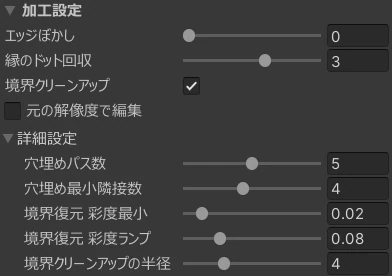
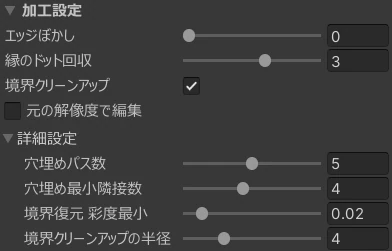
fix(ui): 効かない「境界復元 彩度ランプ」のスライダーを加工設定から外す
relaxedSatRamp は緩和マッチで使わなくなり、選択キャッシュのキーと保存形式にしか残っていないので、動かしても
何も変わらなかった（誤字点検の判断待ち 5、推奨の A）。スライダーと文言を外し、値と保存形式は残す（古いプリセットも
そのまま読める）。マニュアルの表と画面写真も直した。画面写真は Iroca_Dev の今の窓から撮り直し、前の写真の同じ範囲から
その 1 行（25px）を抜いたものと画素一致することを確かめた。

Claude-Session: https://claude.ai/code/session_01Dg99PZ2BBAA9JB9HUpY3xs

diff --git a/docs/manual/src/ja/07-processing.html b/docs/manual/src/ja/07-processing.html
@@ -38,8 +38,7 @@
   <tr><td>穴埋めパス数</td><td>アンチエイリアス端の孤立ドットを埋めるパス数</td><td>5</td></tr>
   <tr><td>穴埋め最小隣接数</td><td>穴を埋めるのに必要な一致隣接ピクセル数。低いほど積極的に埋める</td><td>4</td></tr>
   <tr><td>境界復元 彩度最小</td><td>境界復元時の彩度最小閾値</td><td>0.02</td></tr>
-  <tr><td>境界復元 彩度ランプ</td><td>境界復元時の彩度ランプ幅</td><td>0.08</td></tr>
   <tr><td>境界クリーンアップの半径</td><td>境界の画素について、パーツの色と背景の色を探す近傍の半径</td><td>4</td></tr>
 </tbody></table>
 
-<p>穴埋め・境界復元の 4 つも、縁のドット回収と同じく、初期設定では色のあるパーツには効きません。</p>
+<p>穴埋め・境界復元の 3 つも、縁のドット回収と同じく、初期設定では色のあるパーツには効きません。</p>

diff --git a/Code/UI/Localization.cs b/Code/UI/Localization.cs
@@ -209,11 +209,6 @@ namespace Iroca
             ? "境界復元時の彩度最小閾値。\n低い値 = より多くの境界ピクセルを回収\n高い値 = より厳格な回収\n既定: 0.02\n初期設定（境界クリーンアップ ON・エッジぼかし 0）では、色のあるパーツには効きません。縁は境界クリーンアップが塗ります。"
             : "Minimum saturation threshold for boundary recovery.\nLower = recover more boundary pixels\nHigher = stricter recovery\nDefault: 0.02\nWith the defaults (Edge Decontamination ON, Edge Feather 0) this has no effect on colored parts; Edge Decontamination paints their edges.";
 
-        public static string RelaxedSatRamp => IsJapanese ? "境界復元 彩度ランプ" : "Boundary Sat Ramp";
-        public static string RelaxedSatRampTooltip => IsJapanese
-            ? "境界復元時の彩度ランプ幅。\n大きい値 = より段階的な遷移\n小さい値 = よりシャープな境界\n既定: 0.08\n初期設定（境界クリーンアップ ON・エッジぼかし 0）では、色のあるパーツには効きません。縁は境界クリーンアップが塗ります。"
-            : "Saturation ramp width for boundary recovery.\nLarger = more gradual transition\nSmaller = sharper boundary\nDefault: 0.08\nWith the defaults (Edge Decontamination ON, Edge Feather 0) this has no effect on colored parts; Edge Decontamination paints their edges.";
-
         public static string ValueWeight => IsJapanese ? "明度重み" : "Value Weight";
         public static string ValueWeightTooltip => IsJapanese
             ? "距離式における明度（V）の重み。\n高い値 = 明度差に敏感（異なる素材を分離しやすい）\n低い値 = 明度差を許容（同じ素材の影/ハイライト変動を吸収）\n既定: 1.0"

diff --git a/Code/UI/IrocaWindow.Layout.cs b/Code/UI/IrocaWindow.Layout.cs
@@ -211,7 +211,7 @@ namespace Iroca
                 Localization.FloodFillSeedPoint, Localization.HighlightBandExpand,
                 Localization.AutoHighlightSample, Localization.HoleFillPasses,
                 Localization.HoleFillMinNeighbors, Localization.RelaxedSatMin,
-                Localization.RelaxedSatRamp, Localization.DecontaminationRadius);
+                Localization.DecontaminationRadius);
 
             // +4: ラベルとフィールドの間に詰まって見えない程度の余白。
             s_measuredLabelWidth = max + 4f;
@@ -801,9 +801,8 @@ namespace Iroca
                     relaxedSatMin = UndoHelper.Slider(this,
                         new GUIContent(Localization.RelaxedSatMin, Localization.RelaxedSatMinTooltip),
                         relaxedSatMin, 0f, 0.2f);
-                    relaxedSatRamp = UndoHelper.Slider(this,
-                        new GUIContent(Localization.RelaxedSatRamp, Localization.RelaxedSatRampTooltip),
-                        relaxedSatRamp, 0.01f, 0.3f);
+                    // relaxedSatRamp は出さない。緩和マッチで使わなくなり、動かしても何も変わらないため。
+                    // 値は選択キャッシュのキーと、プリセット・セッションの保存形式の互換のために残している。
                     using (new EditorGUI.DisabledScope(!useDecontamination))
                     {
                         decontaminationRadius = UndoHelper.IntSlider(this,

diff --git a/docs/manual/build_assets.py b/docs/manual/build_assets.py
@@ -137,7 +137,9 @@ SHOTS = [
     ("nd-section", "window.png", (0, 872, 1026, 1000), None),
     ("export-section", "tall_open.png", (0, 913, 1026, 1165), None),
     ("zone-detail", "zone_detail.png", (0, 140, 392, 950), None),
-    ("processing", "tall_open.png", (0, 397, 392, 673), None),
+    # 加工設定は 2026-10-19 に、効かない「境界復元 彩度ランプ」を隠したので撮り直した（中身はテクスチャに依らない）。
+    # 新しい原板は tall_open の同じ範囲から、その 1 行（25px）を抜いたものと画素一致。
+    ("processing", "processing_open.png", (0, 397, 392, 648), None),
     ("mask-section", "tall_open.png", (0, 680, 392, 835), None),
     ("presets", "presets_open.png", (0, 585, 392, 790), None),
     # 前後比較は 2 面並ぶので、窓を 1320pt 幅に広げて撮った原板から切り出す（820pt だと小さい）

diff --git a/CHANGELOG.md b/CHANGELOG.md
@@ -12,6 +12,7 @@
 - AI の準備で Sentis を導入する案内（確認画面とボタンの説明）とマニュアルに、VRChat SDK も使う Burst と Collections が一緒に新しい版に上がることを書きました
 - いろかのウィンドウと「Iroca Recolor」のインスペクタに出る NDMF の警告を、入っていない・古い・新しすぎるで分け、それぞれの直し方（NDMF を追加する・NDMF を新しくする・いろかを新しくする）を出すようにしました。これまでは版が合わないときも「NDMF を追加してください」と出ていました
 - 編集中の処理（プレビュー・スポイト・AI 提案・自動調整）と「アバターに非破壊で登録」のテクスチャを、インポート設定の Max Size の大きさで行うようにしました。ゲームに出るのもこの大きさです。元の画像が Max Size より大きいとき（8192×8192 の画像を Max Size 2048 で使うなど）に、メモリを大きく減らせます。「テクスチャとして書き出す」はこれまでどおり元の画像の解像度で書き出します。プレビューを拡大したときに映る画像もこの大きさになります。元の画像の細部まで見たいときなど、元の解像度で編集したいときは、加工設定の「元の解像度で編集」をオンにしてください（この PC のいろか全体に効きます）
+- 加工設定の詳細から「境界復元 彩度ランプ」を外しました。今の版では動かしても何も変わらない設定でした（プリセットに保存した値はそのまま読み込めます）
 - マスク編集ウィンドウを初めて開いたときは、いろかのウィンドウの隣に、中身が収まる大きさで開くようにしました。小さくしたときは中身をスクロールできます
 
 ### パフォーマンス
